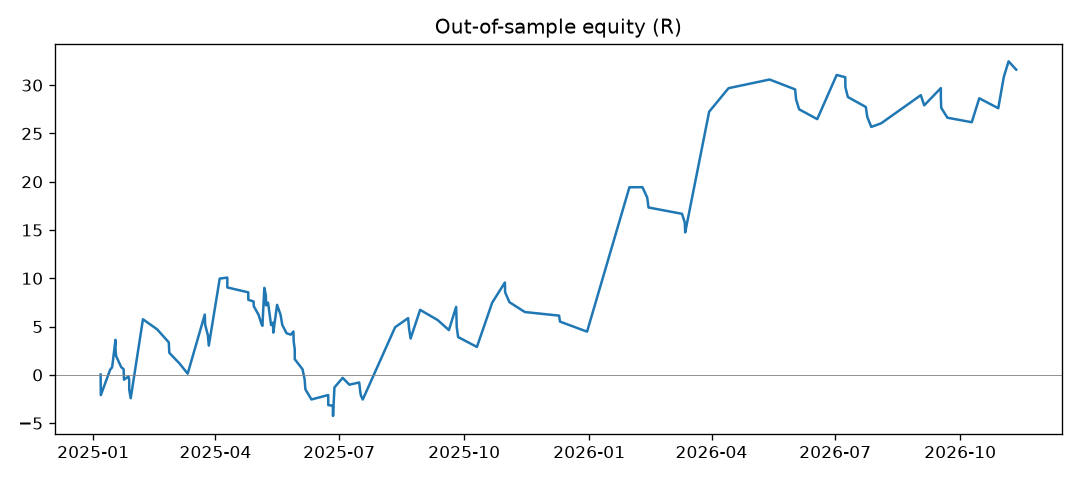
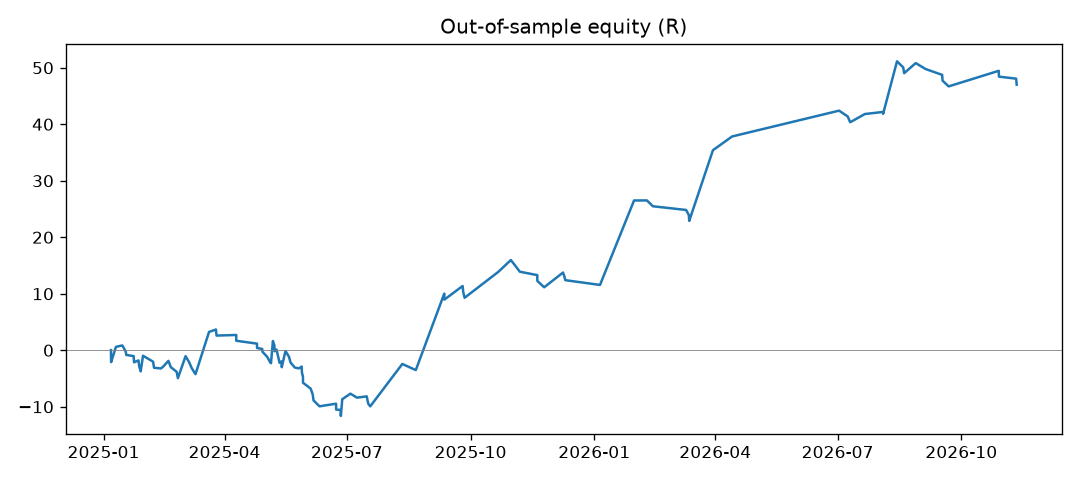
Weekly research update

diff --git a/reports/report.md b/reports/report.md
@@ -1,64 +1,65 @@
 # Gold strategy research report
 
-Generated 2026-11-19 20:18 UTC from 2024-06-30 to 2026-11-19 (13674 hourly bars).
+Generated 2026-11-19 20:48 UTC from 2024-06-30 to 2026-11-19 (13737 hourly bars).
 
 All numbers are OUT OF SAMPLE (months the selection never saw), after spread,
 slippage and overnight funding. 1R = the amount risked on one trade.
 
 ## Verdict
 
-**LIVE: signals ON**
+**NO PROVEN EDGE: signals OFF**
 
+- drawdown 15.29R > 15R
 
-Current champion: `1h:ema_cross` with `{"fast": 20, "slow": 100, "adx_min": 20, "stop_atr": 2.0, "rr": 0, "trail": true}`
+Current champion: `1h:bb_fade` with `{"n": 20, "k": 2.5, "trend_n": 200, "stop_atr": 1.5, "rr": 2.0, "trail": false, "session": true}`
 
 ## Adaptive selection (what the bot would actually have done)
 
 | trades | win rate | profit factor | avg R | total R | max drawdown R |
 |---|---|---|---|---|---|
-| 122 | 31% | 1.41 | 0.259 | 31.61 | 14.33 |
+| 114 | 33% | 1.7 | 0.412 | 47.01 | 15.29 |
 
 ## Each strategy on its own (best params re-picked monthly)
 
 | strategy | trades | win rate | PF | total R | max DD R |
 |---|---|---|---|---|---|
-| 1h:macd_trend | 413 | 36% | 1.4 | 61.96 | 11.2 |
-| 1h:ema_cross | 95 | 26% | 1.56 | 33.68 | 8.56 |
-| 4h:supertrend_flip | 68 | 46% | 1.98 | 25.03 | 5.55 |
-| 4h:macd_trend | 108 | 41% | 1.52 | 18.95 | 7.71 |
-| 1h:donchian_breakout | 209 | 38% | 1.16 | 17.62 | 16.63 |
-| 1h:bb_fade | 82 | 62% | 1.24 | 6.62 | 5.93 |
-| 4h:rsi_pullback | 102 | 70% | 1.19 | 4.94 | 6.34 |
-| 4h:donchian_breakout | 56 | 34% | 1.11 | 3.11 | 9.08 |
-| 4h:ema_cross | 70 | 29% | 1.07 | 2.54 | 12.2 |
+| 1h:macd_trend | 370 | 35% | 1.44 | 61.0 | 11.2 |
+| 1h:ema_cross | 79 | 28% | 2.19 | 56.3 | 8.56 |
+| 1h:donchian_breakout | 188 | 37% | 1.23 | 24.22 | 14.74 |
+| 4h:macd_trend | 104 | 39% | 1.5 | 18.47 | 8.51 |
+| 4h:supertrend_flip | 60 | 42% | 1.72 | 17.12 | 6.02 |
+| 4h:ema_cross | 67 | 30% | 1.23 | 7.45 | 7.4 |
+| 4h:rsi_pullback | 101 | 69% | 1.2 | 5.75 | 6.02 |
+| 1h:bb_fade | 74 | 60% | 1.06 | 1.52 | 8.64 |
+| 1h:rsi_pullback | 324 | 62% | 1.01 | 1.03 | 10.55 |
+| 4h:donchian_breakout | 57 | 30% | 0.93 | -2.19 | 10.05 |
 | 4h:bb_fade | 18 | 50% | 0.67 | -2.41 | 3.37 |
-| 1h:supertrend_flip | 278 | 31% | 0.88 | -17.83 | 28.65 |
-| 1h:rsi_pullback | 483 | 59% | 0.85 | -18.27 | 22.92 |
+| 1h:supertrend_flip | 236 | 30% | 0.75 | -36.03 | 40.28 |
 
 ## Month by month
 
 | test month | picked | OOS R |
 |---|---|---|
-| 2025-01-02 | 1h:supertrend_flip | 5.76 |
-| 2025-02-02 | 1h:ema_cross | -3.48 |
-| 2025-03-02 | 1h:ema_cross | 7.69 |
+| 2025-01-02 | 1h:supertrend_flip | -0.97 |
+| 2025-02-02 | 1h:supertrend_flip | -0.08 |
+| 2025-03-02 | 1h:supertrend_flip | 3.65 |
 | 2025-04-02 | 1h:ema_cross | -2.98 |
 | 2025-05-02 | 1h:supertrend_flip | -5.37 |
 | 2025-06-02 | 1h:supertrend_flip | -1.93 |
 | 2025-07-02 | 1h:ema_cross | 5.25 |
-| 2025-08-02 | 1h:ema_cross | 1.79 |
-| 2025-09-02 | 1h:ema_cross | -2.81 |
-| 2025-10-02 | 1h:ema_cross | 3.61 |
-| 2025-11-02 | 1h:ema_cross | -1.02 |
-| 2025-12-02 | 1h:ema_cross | -2.03 |
+| 2025-08-02 | 1h:ema_cross | 12.45 |
+| 2025-09-02 | 1h:ema_cross | -0.73 |
+| 2025-10-02 | 1h:ema_cross | 5.65 |
+| 2025-11-02 | 1h:ema_cross | -1.19 |
+| 2025-12-02 | 1h:ema_cross | -2.19 |
 | 2026-01-02 | 1h:ema_cross | 14.96 |
-| 2026-02-02 | 1h:ema_cross | -2.1 |
+| 2026-02-02 | 1h:ema_cross | -1.03 |
 | 2026-03-02 | 1h:ema_cross | 12.35 |
 | 2026-04-02 | 1h:ema_cross | 0.0 |
-| 2026-05-02 | 1h:ema_cross | -1.15 |
-| 2026-06-02 | 1h:ema_cross | 2.52 |
-| 2026-07-02 | 1h:ema_cross | -5.01 |
-| 2026-08-02 | 4h:supertrend_flip | 2.92 |
-| 2026-09-02 | 1h:ema_cross | -2.33 |
-| 2026-10-02 | 1h:ema_cross | 4.2 |
-| 2026-11-02 | 1h:ema_cross | 0.77 |
+| 2026-05-02 | 1h:ema_cross | 0.0 |
+| 2026-06-02 | 1h:ema_cross | 4.57 |
+| 2026-07-02 | 1h:ema_cross | -0.23 |
+| 2026-08-02 | 1h:ema_cross | 8.64 |
+| 2026-09-02 | 1h:ema_cross | -4.12 |
+| 2026-10-02 | 1h:ema_cross | 1.73 |
+| 2026-11-02 | 1h:ema_cross | -1.42 |
